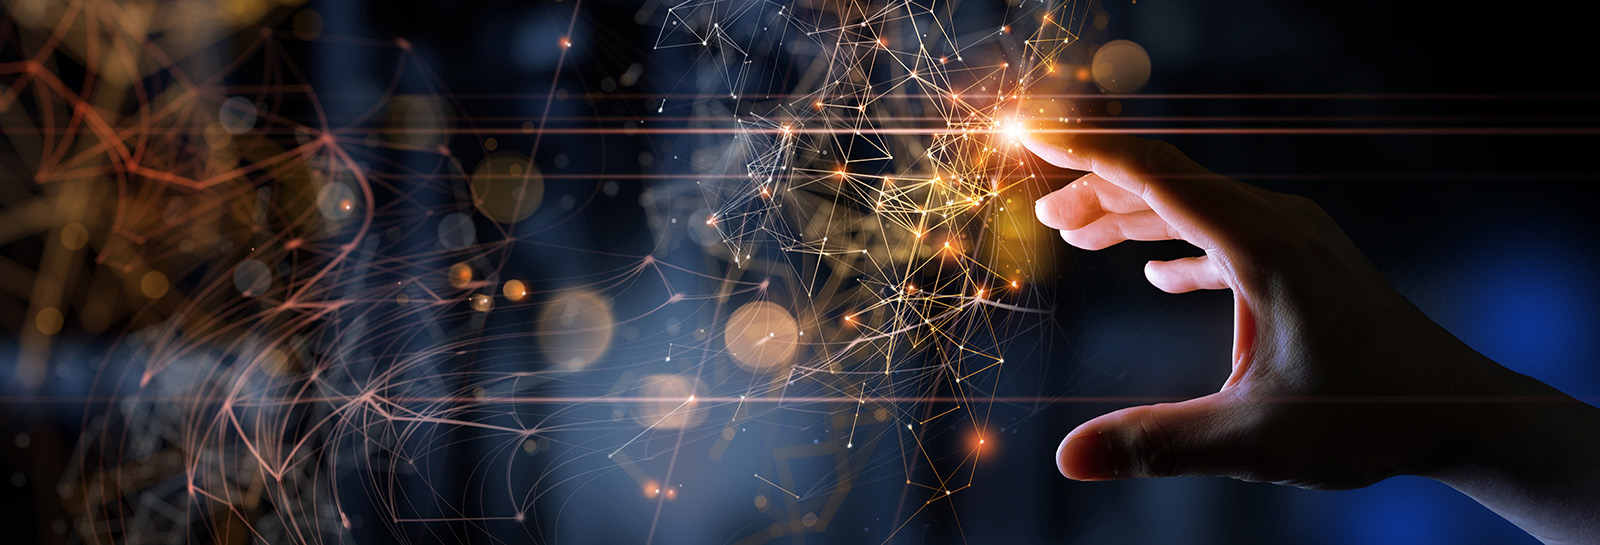
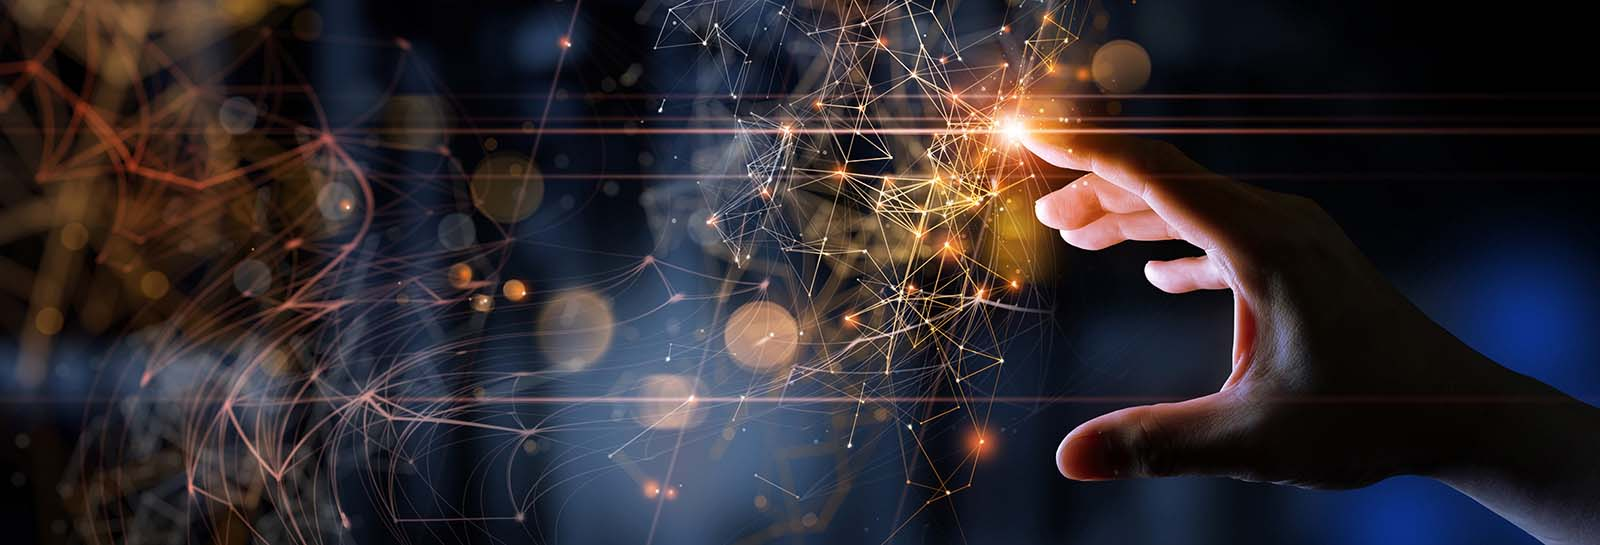
resized most jpegs

diff --git a/layouts/_default/baseof.html b/layouts/_default/baseof.html
@@ -3,7 +3,6 @@
 
 <head>
   <meta charset="utf-8">
-  <meta http-equiv="x-ua-compatible" content="ie=edge">
   <title>{{ block "title" . }}{{ .Title }} - {{ .Site.Title }}{{ end }}</title>
   <meta name="viewport" content="width=device-width, initial-scale=1">
   {{ block "meta_tags" . }}{{end}}
